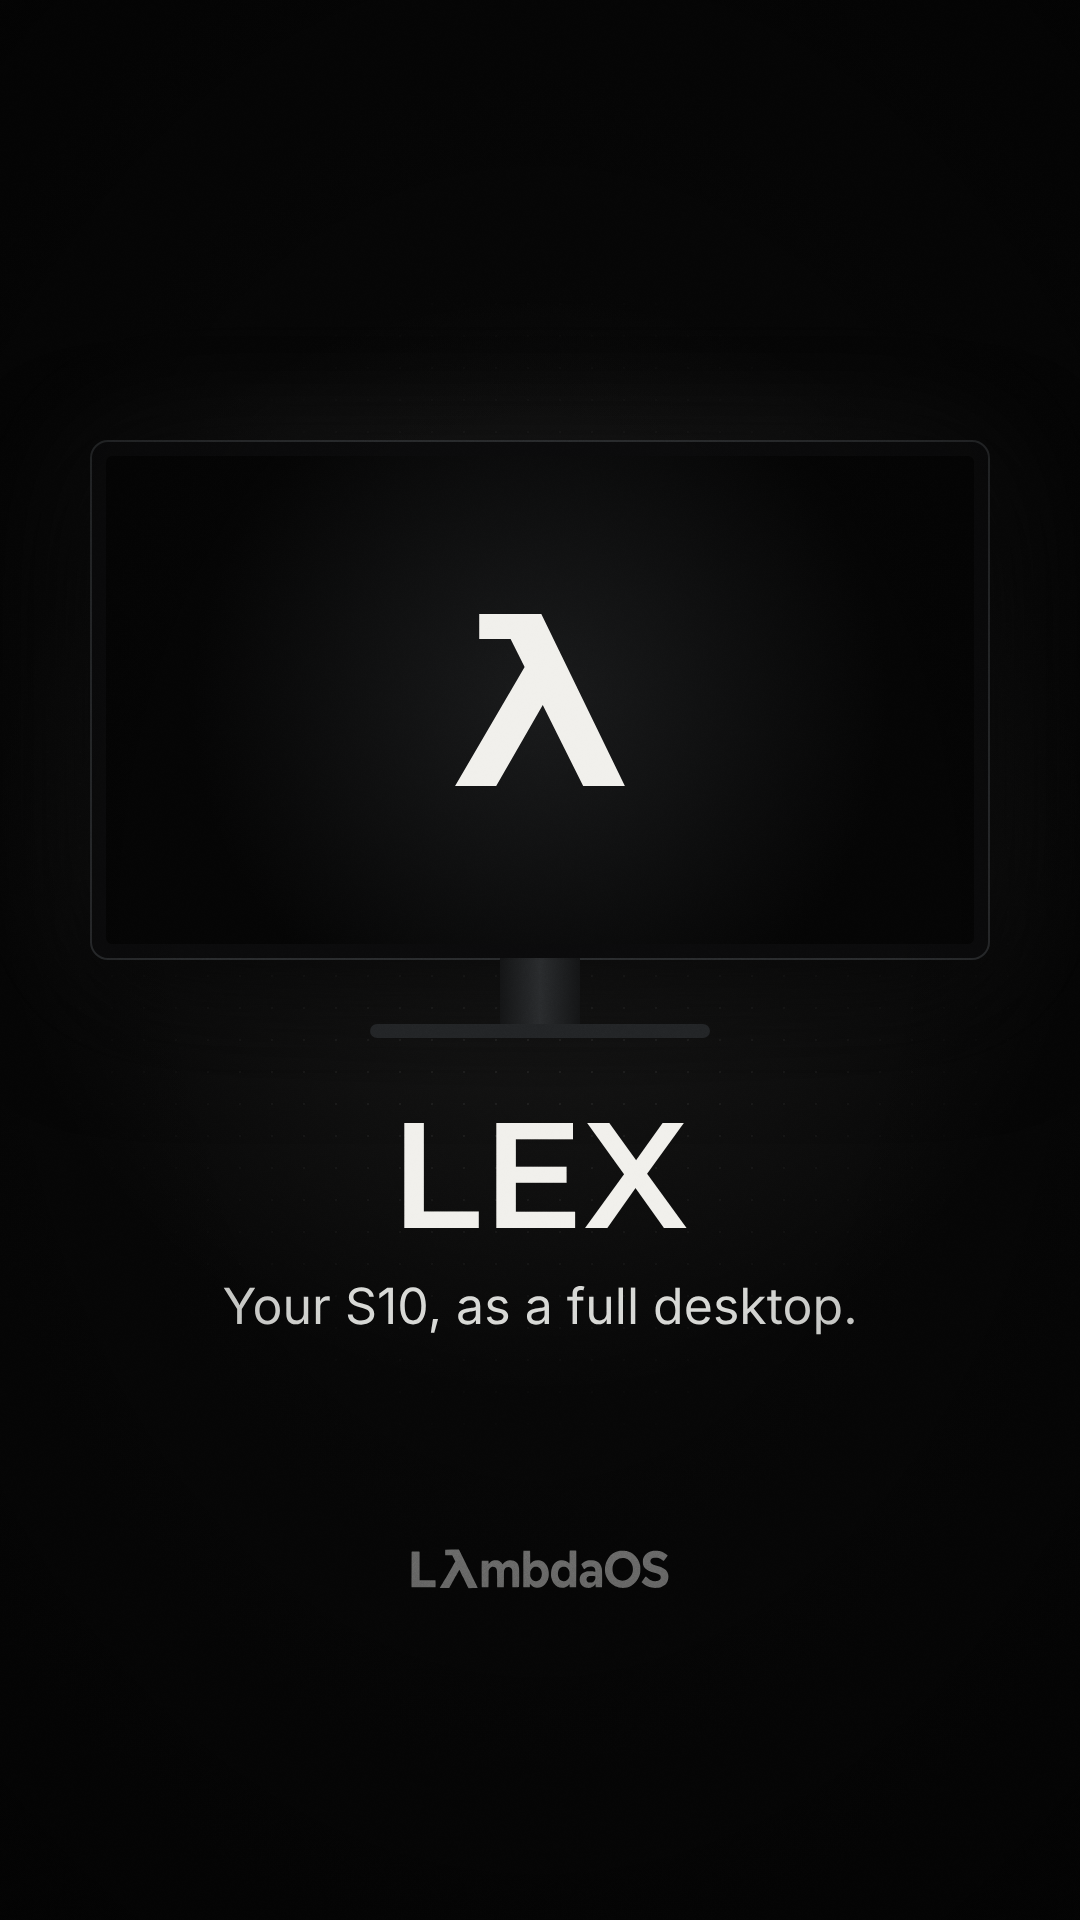
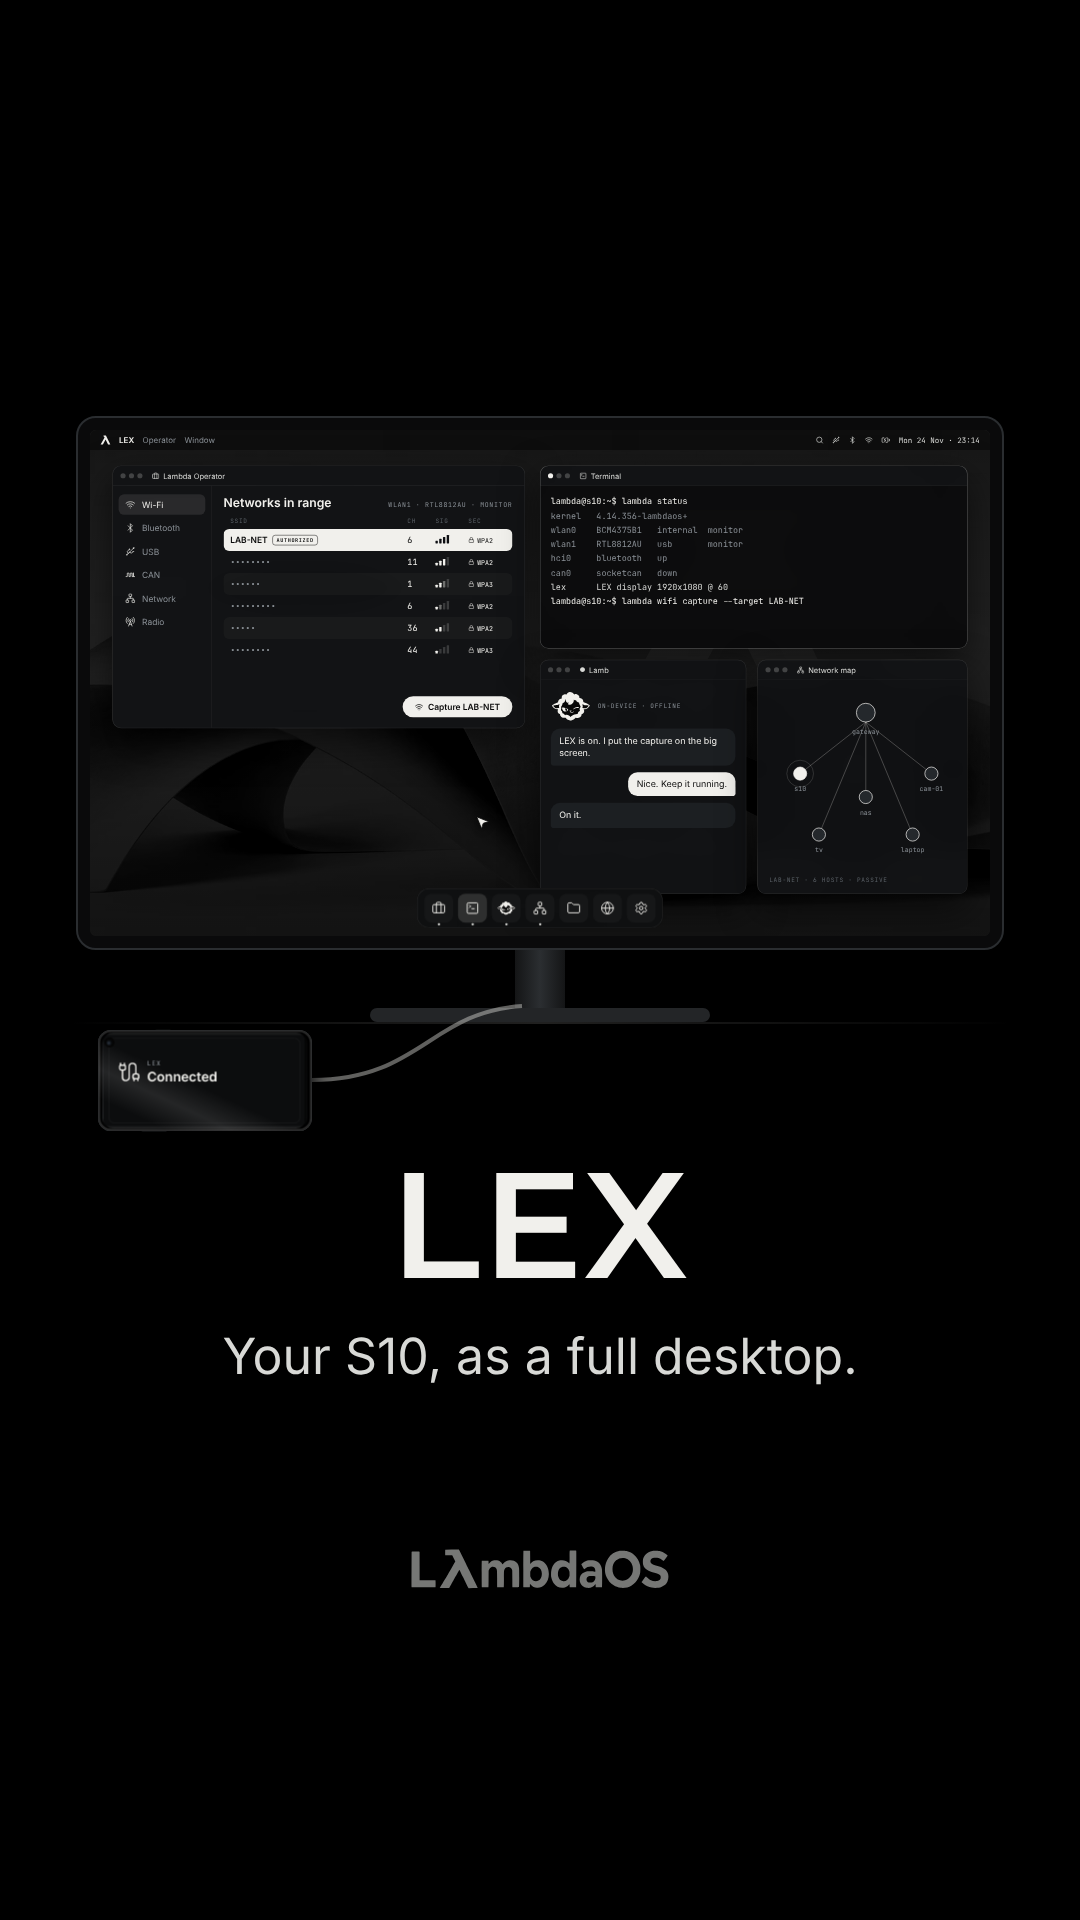
Lambda OS: portada de LEX nueva, en negro puro con el escritorio real
Claude-Session: https://claude.ai/code/session_01YbFVwwFMqXTvKrLoydRY5X

diff --git a/video-source/lambdaos/src/covers/Covers.tsx b/video-source/lambdaos/src/covers/Covers.tsx
@@ -4,7 +4,10 @@ import { Phone } from "../device/Phone";
 import { OperatorHome } from "../ui/Screens";
 import { C, F } from "../theme";
 import { DotGrid, Grain, Vignette } from "../fx/Fx";
-import { LambdaMark, Wordmark } from "../brand/Brand";
+import { Wordmark } from "../brand/Brand";
+import { Cable } from "lucide-react";
+import { Cursor, DesktopChrome, LambWin, NetWin, OperatorWin, TerminalWin } from "../lex/Desktop";
+import { Landscape, Touchpad } from "../social/LexExplainer";
 import { Lamb } from "../lamb/Lamb";
 
 /**
@@ -66,17 +69,36 @@ export const Cover: React.FC<{ id: CoverId }> = ({ id }) => {
         <Title t="Operator" s="One target. One tap." y={1225} />
       </Frame>
     );
+  // LEX: the real desktop on a monitor, the S10 lying on the desk with its cable
+  const S = { x: 90, y: 430, w: 900, h: 506 };
   return (
-    <Frame>
-      {/* monitor with the λ, phone underneath */}
-      <div style={{ position: "absolute", top: 440, left: 90, width: 900, height: 520, borderRadius: 18, background: "#0B0B0C", border: "2px solid #2a2c2e", boxShadow: "0 40px 120px rgba(0,0,0,0.8), 0 0 140px rgba(241,240,236,0.08)" }}>
-        <div style={{ position: "absolute", inset: 14, borderRadius: 6, background: "radial-gradient(circle at 50% 50%, #1a1b1c, #050505 70%)", display: "grid", placeItems: "center" }}>
-          <LambdaMark size={170} />
+    <Frame plain>
+      <div style={{ position: "absolute", left: 60, right: 60, top: 1022, height: 2, background: "linear-gradient(90deg, transparent, rgba(241,240,236,0.2), transparent)" }} />
+      <div style={{ position: "absolute", left: S.x - 14, top: S.y - 14, width: S.w + 28, height: S.h + 28, borderRadius: 20, background: "#0A0A0B", border: "2px solid #2a2d30", boxShadow: "0 50px 120px rgba(0,0,0,0.9)" }} />
+      <div style={{ position: "absolute", left: S.x, top: S.y, width: S.w, height: S.h, overflow: "hidden", borderRadius: 6 }}>
+        <div style={{ width: 1920, height: 1080, transform: `scale(${S.w / 1920})`, transformOrigin: "0 0" }}>
+          <DesktopChrome f={600} dockIn={1} activeApp={1}>
+            <OperatorWin f={600} p={1} start={0} />
+            <TerminalWin f={600} p={1} start={0} active />
+            <LambWin f={600} p={1} start={0} />
+            <NetWin f={600} p={1} start={0} />
+            <Cursor x={820} y={820} />
+          </DesktopChrome>
         </div>
       </div>
-      <div style={{ position: "absolute", top: 958, left: 540 - 40, width: 80, height: 70, background: "linear-gradient(90deg,#141516,#2a2c2e,#141516)" }} />
-      <div style={{ position: "absolute", top: 1024, left: 540 - 170, width: 340, height: 14, borderRadius: 7, background: "#232527" }} />
-      <Title t="LEX" s="Your S10, as a full desktop." y={1100} />
+      <div style={{ position: "absolute", left: 515, top: 950, width: 50, height: 60, background: "linear-gradient(90deg,#141516,#2b2e31,#141516)" }} />
+      <div style={{ position: "absolute", left: 370, top: 1008, width: 340, height: 14, borderRadius: 7, background: "#232527" }} />
+      <svg width={1080} height={1920} style={{ position: "absolute", inset: 0 }}>
+        <path d="M 312 1080 C 420 1080, 430 1012, 522 1006" stroke="rgba(241,240,236,0.4)" strokeWidth={4} fill="none" />
+      </svg>
+      <div style={{ position: "absolute", left: 205 - 50, top: 1080 - 106 }}>
+        <Phone width={100} rz={-90} glare={0.4}>
+          <Landscape>
+            <Touchpad label="Connected" icon={<Cable size={260} strokeWidth={1.4} />} />
+          </Landscape>
+        </Phone>
+      </div>
+      <Title t="LEX" s="Your S10, as a full desktop." y={1150} />
     </Frame>
   );
 };

diff --git a/video-source/lambdaos/src/social/LexExplainer.tsx b/video-source/lambdaos/src/social/LexExplainer.tsx
@@ -28,7 +28,7 @@ type Rect = { x: number; y: number; w: number; h: number };
 const lerpRect = (a: Rect, b: Rect, t: number): Rect => ({ x: lerp(a.x, b.x, t), y: lerp(a.y, b.y, t), w: lerp(a.w, b.w, t), h: lerp(a.h, b.h, t) });
 
 /** Landscape content inside a portrait-authored Phone screen (phone rotated rz = -90). */
-const Landscape: React.FC<{ children: React.ReactNode }> = ({ children }) => (
+export const Landscape: React.FC<{ children: React.ReactNode }> = ({ children }) => (
   <div style={{ position: "absolute", left: 0, top: 0, width: 2280, height: 1080, transformOrigin: "0 0", transform: "translateX(1080px) rotate(90deg)", overflow: "hidden" }}>
     {children}
   </div>
@@ -64,7 +64,7 @@ const Desk: React.FC<{ f: number; op: number; term: number; lamb?: number; dock:
 );
 
 /** Phone touchpad UI (landscape). */
-const Touchpad: React.FC<{ label: string; icon: React.ReactNode }> = ({ label, icon }) => (
+export const Touchpad: React.FC<{ label: string; icon: React.ReactNode }> = ({ label, icon }) => (
   <AbsoluteFill style={{ background: "#0C0D0E", fontFamily: F.ui, color: C.ink }}>
     <div style={{ position: "absolute", inset: 60, borderRadius: 60, border: "4px solid rgba(241,240,236,0.14)" }} />
     <div style={{ position: "absolute", left: 160, top: 300, display: "flex", alignItems: "center", gap: 70 }}>
